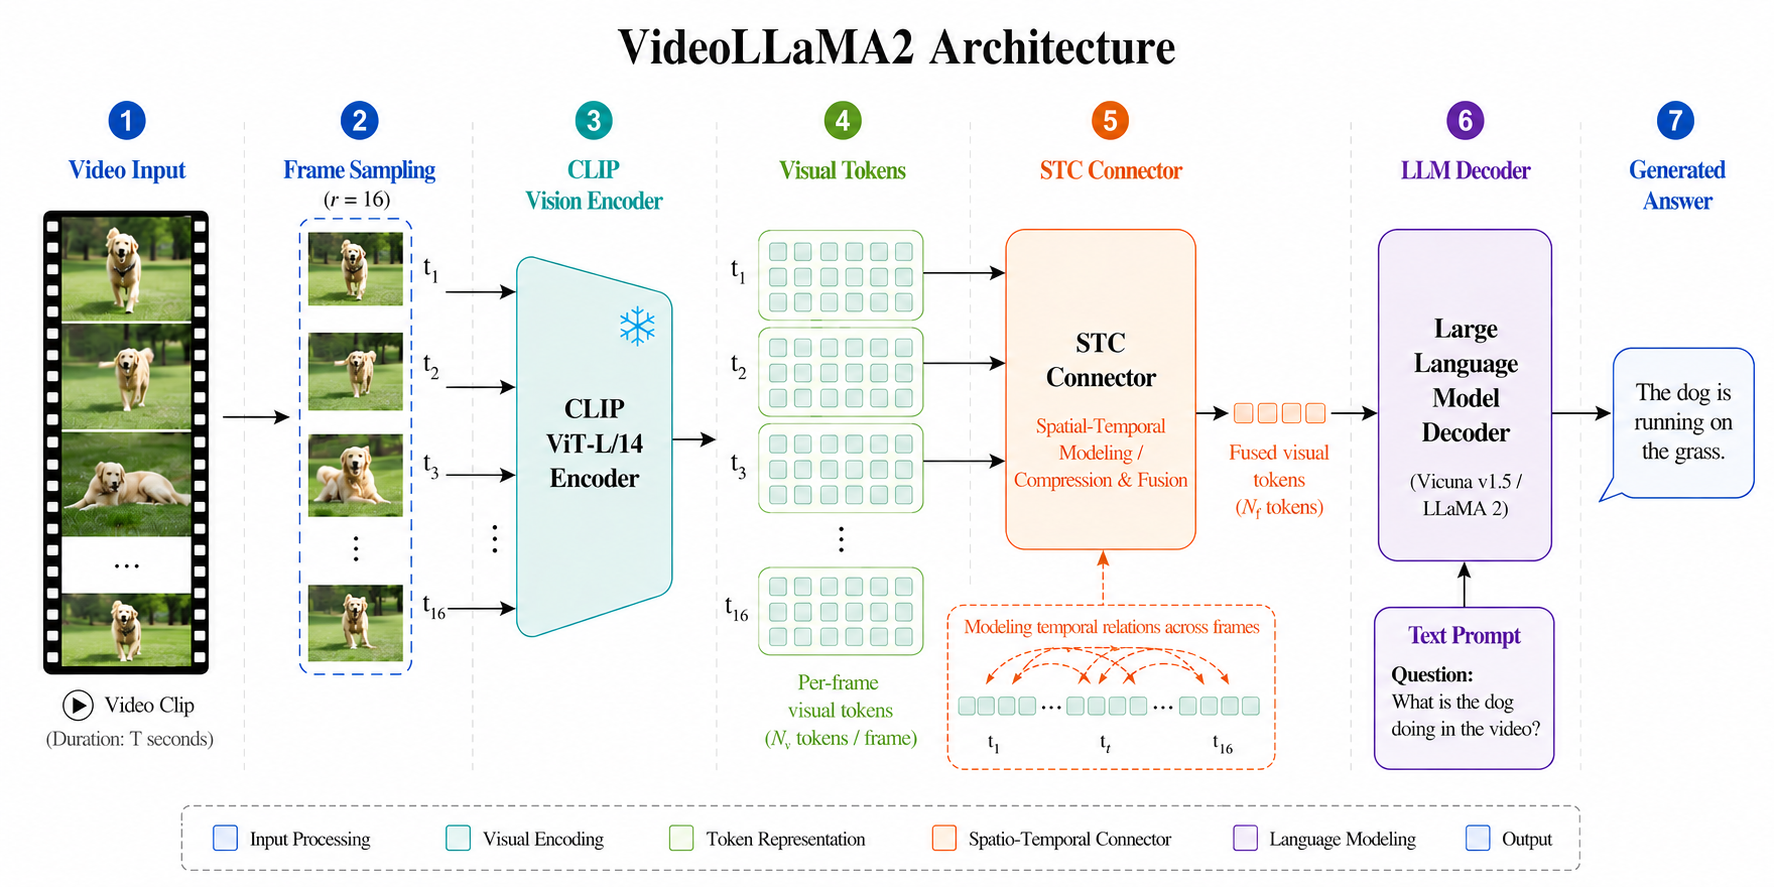
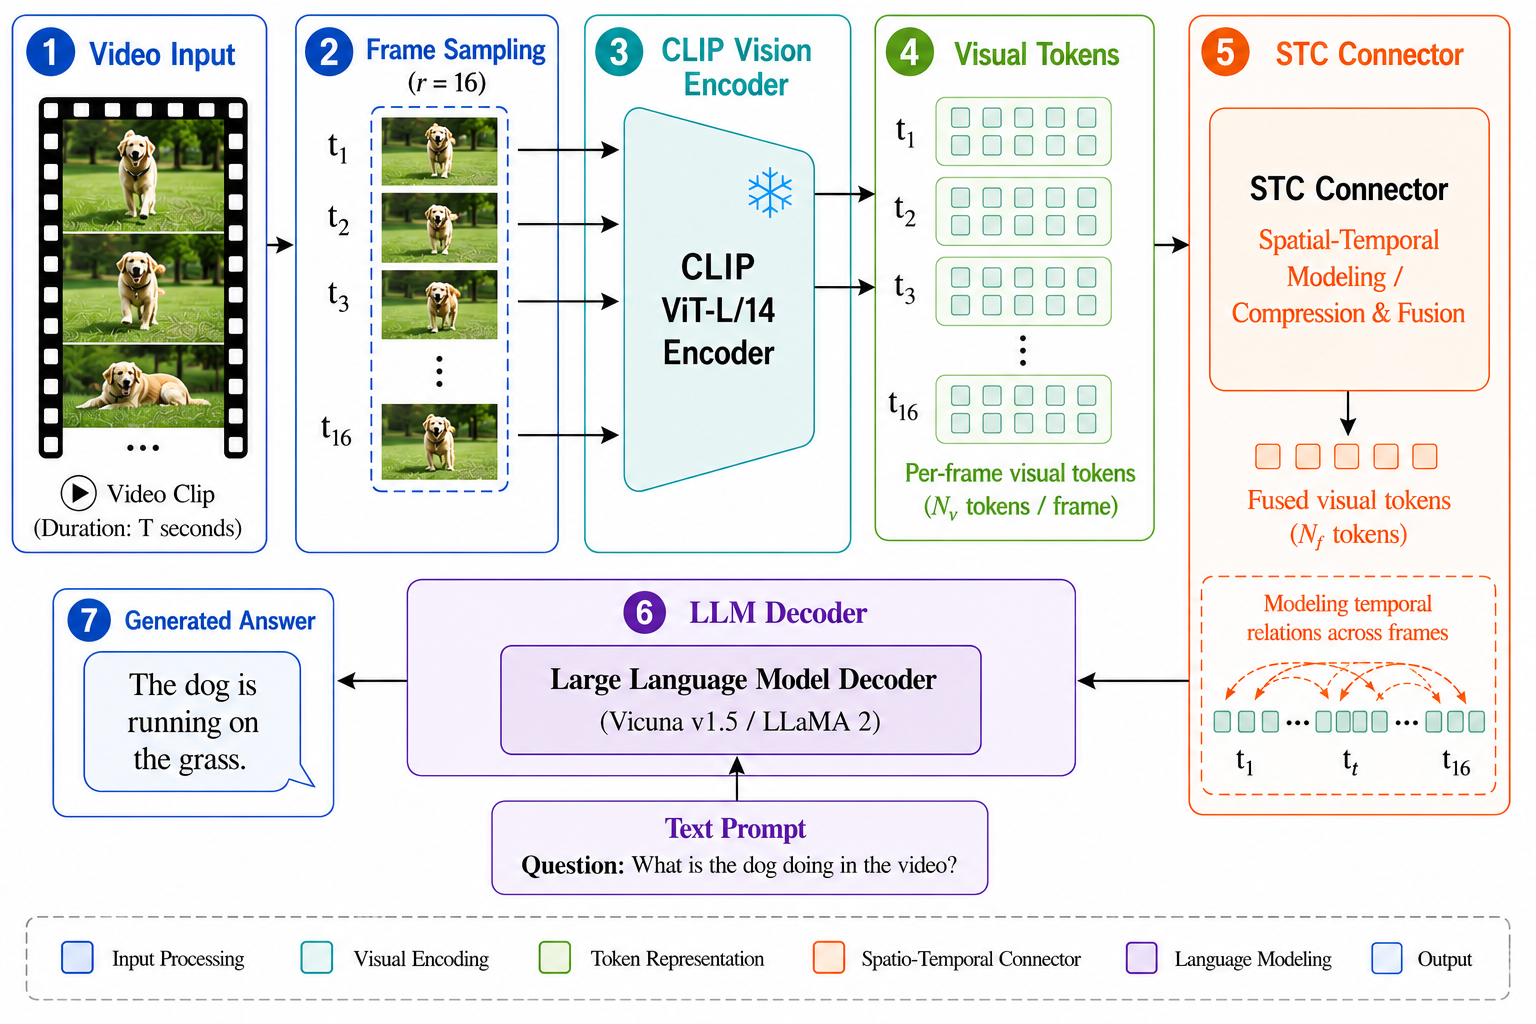
初步完成

diff --git a/body/undergraduate/final/experiments.tex b/body/undergraduate/final/experiments.tex
@@ -4,13 +4,11 @@
 
 本章围绕本文提出的视频视觉 token 压缩方法进行实验验证与结果分析。实验主要从压缩效率、模型准确率、不同压缩倍率下的鲁棒性以及跨数据集泛化能力等方面展开。本文以 VideoLLaMA2-7B-16F 作为基础视频大模型，在不改变语言模型、视觉塔和原始时空连接模块主体结构的前提下，将 TokenPacker 作为帧级空间视觉 token 压缩模块接入模型推理流程，并在 MVBench 数据集上进行主要实验验证\cite{videollama22024,mvbench2024,tokenpacker2024}。
 
-本章实验重点回答以下问题：第一，引入视觉 token 压缩后，模型的视觉 token 数量、推理延迟与吞吐率是否得到改善；第二，TokenPacker 直接迁移到 VideoLLaMA2 后是否存在性能下降问题，token 校准与轻量微调能否缓解该问题；第三，在不同压缩倍率下，本文方法与 Mean Pooling 等固定压缩方法相比是否具有更好的高压缩鲁棒性；第四，在不使用目标测试集进行校准的情况下，本文方法是否具备一定跨数据集泛化能力。由于当前 Video-MME 泛化实验数据尚未完全整理，本章暂将泛化能力实验部分保留为空，后续补充完整实验结果。
+本章实验重点回答以下问题：第一，引入视觉 token 压缩后，模型的视觉 token 数量、推理延迟与吞吐率是否得到改善；第二，TokenPacker 直接迁移到 VideoLLaMA2 后是否存在性能下降问题，token 校准与轻量微调能否缓解该问题；第三，在不同压缩倍率下，本文方法与 Mean Pooling 等固定压缩方法相比是否具有更好的高压缩鲁棒性；第四，在不使用目标测试集进行校准的情况下，本文方法是否具备一定跨数据集泛化能力。
 
 \subsection{实验环境与数据集}
 
 \subsubsection{实验环境}
-
-本文实验在单卡 NVIDIA GeForce RTX 4090 平台上完成。训练与推理均采用 batch size 为 1 的设置，并在相同硬件环境下统计模型推理延迟、prefill 时间、decode 时间、吞吐率与峰值显存。实验所使用的主要软硬件环境如\autoref{tab:experiment_environment}所示。
 
 \begin{table}[htbp]
     \centering
@@ -30,6 +28,8 @@
         \bottomrule
     \end{tabularx}
 \end{table}
+
+本文实验在单卡 NVIDIA GeForce RTX 4090 平台上完成。训练与推理均采用 batch size 为 1 的设置，并在相同硬件环境下统计模型推理延迟、prefill 时间、decode 时间、吞吐率与峰值显存。实验所使用的主要软硬件环境如\autoref{tab:experiment_environment}所示。
 
 需要说明的是，NVIDIA-SMI 中显示的 CUDA Version 表示驱动支持的最高 CUDA 版本，而本文 PyTorch 实际运行时使用的是 CUDA 11.8。为保证不同方法之间的对比公平性，所有推理实验均在相同硬件环境、相同 batch size 和相同解码设置下完成。
 
@@ -68,7 +68,7 @@
 
 具体而言，校准子集从 MVBench 的 20 个任务类别中分别随机抽取最多 50 个视频，形成 `data/calibration\_videos\_mvbench\_clip.txt`。该文件仅用于阶段一无标签 token 校准和可选的阶段二轻量监督微调。正式 MVBench 评测时使用 `--exclude-video-list` 参数排除该校准子集，并在每个任务类别中最多抽取 50 个视频用于评测。该设置能够降低校准数据泄漏对评测结果的影响。
 
-此外，本文计划使用 Video-MME 作为跨数据集泛化测试集\cite{videomme2025}。Video-MME 不参与 TokenPacker 的校准或监督微调，仅用于测试 MVBench 上获得的压缩模型在新数据集上的泛化能力。由于当前 Video-MME 实验数据尚未完整整理，本章仅保留泛化实验章节结构，具体结果将在后续版本中补充。
+此外，本文使用 Video-MME 作为跨数据集泛化测试集\cite{videomme2025}。Video-MME 不参与 TokenPacker 的校准或监督微调，仅用于测试 MVBench 上获得的压缩模型在新数据集上的泛化能力。与 MVBench 相比，Video-MME 覆盖感知、识别、推理和信息概括等更多类型的视频理解任务，因此能够用于观察压缩模块是否只适配 MVBench 分布，或是否能够迁移到新的评测基准上。
 
 \subsubsection{对比方法}
 
@@ -141,7 +141,7 @@
 \begin{table}[htbp]
     \centering
     \caption{\label{tab:efficiency_gain_result}不同压缩倍率下的效率收益}
-    \begin{tabularx}{\textwidth}{c c c c}
+    \begin{tabular}{c c c c}
         \toprule
         Scale & Accuracy Drop & Latency Reduction & Throughput Gain \\
         \midrule
@@ -149,7 +149,7 @@
         3 & -19.96\% & 28.0\% & 38.8\% \\
         4 & -20.71\% & 29.8\% & 42.4\% \\
         \bottomrule
-    \end{tabularx}
+    \end{tabular}
 \end{table}
 
 进一步分析 prefill 与 decode 阶段可以发现，视觉 token 压缩主要降低的是 prefill 阶段耗时。Baseline 的 prefill 时间为 0.1943 秒，而 scale factor 为 2、3、4 时分别下降到 0.0775 秒、0.0539 秒和 0.0443 秒。这一现象符合视频多模态大模型的推理过程特点：视觉 token 主要作为输入上下文参与 prefill 阶段计算，减少视觉 token 数量能够直接降低上下文编码阶段的注意力计算开销。相比之下，decode 阶段耗时变化并不明显，甚至略有增加，说明本文方法的主要效率收益来自视觉上下文长度的压缩，而不是答案生成阶段本身的加速。
@@ -167,7 +167,7 @@
 \begin{table}[htbp]
     \centering
     \caption{\label{tab:s2_overall_performance}Scale factor 为 2 时的整体准确率对比}
-    \begin{tabularx}{\textwidth}{l c}
+    \begin{tabular}{l c}
         \toprule
         Method & Overall Accuracy \\
         \midrule
@@ -177,7 +177,7 @@
         TokenPacker + Calibration (s2) & 41.32 \\
         TokenPacker + Finetune (s2) & 47.01 \\
         \bottomrule
-    \end{tabularx}
+    \end{tabular}
 \end{table}
 
 可以看到，未压缩 VideoLLaMA2 Baseline 的准确率最高，为 57.37\%。Mean Pooling 在压缩到每帧 144 个 token 后，准确率为 50.47\%，相比 Baseline 下降 6.90 个百分点。TokenPacker 直接迁移后的准确率仅为 33.86\%，相比 Baseline 下降 23.51 个百分点，说明原始 TokenPacker 权重虽然能够完成视觉 token 压缩，但直接迁移到 VideoLLaMA2 的视频推理流程中存在明显适配问题。
@@ -243,7 +243,7 @@
 \begin{table}[htbp]
     \centering
     \caption{\label{tab:calibration_gain}Token 校准带来的准确率增益}
-    \begin{tabularx}{\textwidth}{c c c c}
+    \begin{tabular}{c c c c}
         \toprule
         Scale & TokenPacker & TP-Calib & Gain \\
         \midrule
@@ -251,7 +251,7 @@
         3 & 32.74 & 37.41 & +4.67 \\
         4 & 32.74 & 36.66 & +3.92 \\
         \bottomrule
-    \end{tabularx}
+    \end{tabular}
 \end{table}
 
 结果表明，token 校准在三个压缩倍率下均带来了准确率提升。其中，scale factor 为 2 时提升最明显，准确率提升 7.46 个百分点；scale factor 为 3 和 4 时分别提升 4.67 和 3.92 个百分点。这一现象说明，当压缩倍率较低、保留 token 数量相对较多时，TokenPacker 仍有较充分的信息容量用于对齐原始视觉 token 分布，因此校准带来的收益更明显。而在更高压缩倍率下，由于 token 预算更小，视觉信息本身已经被更强地压缩，校准能够恢复的性能空间相对有限。
@@ -261,7 +261,7 @@
 \begin{table}[htbp]
     \centering
     \caption{\label{tab:finetune_gain}轻量监督微调带来的准确率增益}
-    \begin{tabularx}{\textwidth}{c c c c}
+    \begin{tabular}{c c c c}
         \toprule
         Scale & TP-Calib & TP-Finetune & Gain \\
         \midrule
@@ -269,7 +269,7 @@
         3 & 37.41 & 43.94 & +6.53 \\
         4 & 36.66 & 41.88 & +5.22 \\
         \bottomrule
-    \end{tabularx}
+    \end{tabular}
 \end{table}
 
 可以看到，轻量微调在三个压缩倍率下同样均带来进一步提升。其中，scale factor 为 3 时提升 6.53 个百分点，scale factor 为 4 时提升 5.22 个百分点，说明在高压缩设置下，任务监督信号对压缩 token 表示的优化仍然有效。与 token 校准相比，轻量微调不仅关注压缩 token 与原始视觉 token 的特征一致性，还直接优化下游问答任务表现，因此能够在校准基础上进一步恢复准确率。
@@ -287,7 +287,7 @@
 \begin{table}[htbp]
     \centering
     \caption{\label{tab:scale_overall_accuracy}不同压缩倍率下的整体准确率对比}
-    \begin{tabularx}{\textwidth}{c c c c c}
+    \begin{tabular}{c c c c c}
         \toprule
         Scale & Mean Pooling & TokenPacker & TP-Calib & TP-Finetune \\
         \midrule
@@ -295,7 +295,7 @@
         3 & 43.66 & 32.74 & 37.41 & 43.94 \\
         4 & 39.37 & 32.74 & 36.66 & 41.88 \\
         \bottomrule
-    \end{tabularx}
+    \end{tabular}
 \end{table}
 
 \begin{figure}[htbp]
@@ -317,7 +317,7 @@
 \begin{table}[htbp]
     \centering
     \caption{\label{tab:accuracy_drop_scale}不同方法随压缩倍率增加的准确率变化}
-    \begin{tabularx}{\textwidth}{l c c c c}
+    \begin{tabular}{l c c c c}
         \toprule
         Method & Scale=2 & Scale=3 & Scale=4 & $\Delta$(s2$\rightarrow$s4) \\
         \midrule
@@ -326,7 +326,7 @@
         TP + Calibration & 41.32 & 37.41 & 36.66 & -4.66 \\
         TP + Finetune & 47.01 & 43.94 & 41.88 & -5.13 \\
         \bottomrule
-    \end{tabularx}
+    \end{tabular}
 \end{table}
 
 从下降幅度看，Mean Pooling 的准确率下降最大，说明其在高压缩倍率下难以稳定保持任务性能。其原因在于 Mean Pooling 直接对局部 token 求平均，虽然能够较好保留整体分布形态，但缺乏对局部重要区域的自适应选择能力。当压缩倍率较高时，大量细粒度视觉信息被平均化，容易削弱模型对动作细节、目标交互和场景变化的判断能力。
@@ -345,11 +345,46 @@ TokenPacker 则采用可学习的注意力聚合机制，通过低分辨率 quer
 
 \subsection{泛化能力实验}
 
-本节计划使用 Video-MME 数据集评估本文方法的跨数据集泛化能力。Video-MME 不参与 TokenPacker 的无标签校准和轻量监督微调，仅作为独立测试集使用。正式实验将直接加载在 MVBench 上校准或微调得到的 TokenPacker checkpoint，并在 Video-MME 上比较 Baseline、Mean Pooling、TokenPacker Calibrated 和 TokenPacker Finetuned 等方法的性能。
+本节使用 Video-MME 数据集评估本文方法的跨数据集泛化能力。Video-MME 不参与 TokenPacker 的无标签校准和轻量监督微调，仅作为独立测试集使用。实验直接加载在 MVBench 上得到的 TokenPacker checkpoint，并比较未压缩 Baseline、直接迁移的 TokenPacker Init 以及经过校准与轻量微调后的 TP-Calib+FT。该实验的核心目的是验证本文方法是否只是对 MVBench 数据分布产生了特定适配，还是能够在未参与训练和校准的新视频理解基准上保持一定有效性。
 
-该实验的核心目的是验证本文方法是否只是对 MVBench 数据分布产生了特定适配，还是能够在未参与训练和校准的新视频理解基准上保持一定有效性。后续将从总体准确率、不同视频时长、不同任务类型以及是否使用字幕等维度进行分析。
+\begin{table}[H]
+    \centering
+    \setlength{\tabcolsep}{6pt}
+    \renewcommand{\arraystretch}{0.75}
+    \caption{\label{tab:videomme_generalization}Video-MME 泛化能力实验结果}
+    \begin{tabular*}{\textwidth}{@{\extracolsep{\fill}}l c c c@{}}
+        \toprule
+        Task Category & Baseline & TP-Init & TP-Calib+FT \\
+        \midrule
+        Temporal Perception & 45.83\% & 50.00\% & 43.30\% \\
+        Spatial Perception & 71.43\% & 50.00\% & 50.00\% \\
+        Attribute Perception & 60.48\% & 24.20\% & 48.50\% \\
+        Action Recognition & 53.21\% & 37.20\% & 44.30\% \\
+        Object Recognition & 58.33\% & 38.90\% & 39.30\% \\
+        OCR Problems & 38.30\% & 31.90\% & 40.00\% \\
+        Counting Problem & 31.58\% & 31.60\% & 35.70\% \\
+        Temporal Reasoning & 36.11\% & 31.50\% & 33.30\% \\
+        Spatial Reasoning & 81.58\% & 31.60\% & 45.90\% \\
+        Action Reasoning & 41.96\% & 30.40\% & 42.50\% \\
+        Object Reasoning & 48.54\% & 36.90\% & 38.10\% \\
+        Information Synopsis & 70.79\% & 37.10\% & 54.50\% \\
+        \midrule
+        Overall Accuracy & 52.06\% & 34.70\% & 42.95\% \\
+        \bottomrule
+    \end{tabular*}
+\end{table}
 
-由于当前 Video-MME 实验数据尚未整理完成，本节暂不报告具体数值结果。后续补充实验数据后，将在本节加入对应表格与分析。
+如\autoref{tab:videomme_generalization}所示，未压缩 Baseline 在 Video-MME 上的总体准确率为 52.06\%，直接迁移的 TokenPacker Init 准确率为 34.70\%，相比 Baseline 下降 17.36 个百分点。这一结果与 MVBench 主实验中的现象一致，说明图像场景下的 TokenPacker 压缩权重直接接入 VideoLLaMA2 后，在新的评测集上同样存在明显的分布适配问题。由于 Video-MME 未参与校准和微调，该下降不能简单归因于某一数据集的任务设置，而更可能来自压缩 token 分布与原始 STC Connector 输入分布之间的不匹配。
+
+经过 token 校准与轻量微调后，TP-Calib+FT 在 Video-MME 上的总体准确率提升到 42.95\%，相比 TP-Init 提升 8.25 个百分点。该结果表明，本文提出的校准与轻量微调流程不仅能够改善 MVBench 上的表现，也能够在未参与训练的新数据集上带来一定泛化收益。换言之，校准和微调并非只记忆 MVBench 中的样本，而是在一定程度上改善了压缩 token 与 VideoLLaMA2 后端模块之间的通用适配关系。
+
+从不同任务类别看，TP-Calib+FT 在 Attribute Perception、Action Recognition、OCR Problems、Counting Problem、Action Reasoning 和 Information Synopsis 等任务上均明显优于 TP-Init。例如，Attribute Perception 从 24.20\% 提升到 48.50\%，Information Synopsis 从 37.10\% 提升到 54.50\%，Action Reasoning 从 30.40\% 提升到 42.50\%。这些结果说明，经过适配后的 TokenPacker 能够恢复一部分与属性识别、动作理解和视频内容概括相关的视觉语义信息。
+
+然而，TP-Calib+FT 与 Baseline 之间仍存在 9.11 个百分点的总体准确率差距，并且在 Spatial Perception、Object Recognition、Temporal Reasoning 和 Spatial Reasoning 等任务上仍明显低于未压缩模型。其中，Spatial Reasoning 从 Baseline 的 81.58\% 降至 45.90\%，说明强压缩后的视觉 token 对空间关系推理仍存在较大信息损失。这表明本文方法虽然具有一定跨数据集泛化能力，但当前逐帧空间压缩策略仍难以完全保留所有细粒度空间结构和复杂推理所需的信息。
+
+值得注意的是，TP-Calib+FT 在 OCR Problems、Counting Problem 和 Action Reasoning 三类任务上略高于 Baseline，分别达到 40.00\%、35.70\% 和 42.50\%。这一现象可能与测试样本数量、候选答案分布以及压缩后 token 对低频语义的突出作用有关，不能简单解释为压缩方法在这些能力上全面超过原模型。但它至少说明，适当的视觉 token 压缩并不必然削弱所有类型的视频理解能力，在部分任务上还可能通过减少冗余视觉 token 干扰，使模型更加关注主要语义线索。
+
+总体来看，Video-MME 泛化实验进一步验证了本文方法的两个结论。第一，TokenPacker 直接迁移到视频大模型时存在稳定的适配性下降，需要通过校准和微调进行缓解。第二，经过适配后的 TokenPacker 在新数据集上仍能保持一定性能恢复能力，说明本文方法并非仅对 MVBench 有效。但与此同时，压缩模型与未压缩 Baseline 仍存在明显差距，尤其是在空间关系和物体级细粒度推理任务上表现不足，这也为后续设计时空联合压缩和自适应 token 保留策略提供了改进方向。
 
 \subsection{实验结果分析与讨论}
 

diff --git a/body/undergraduate/final/conclusion.tex b/body/undergraduate/final/conclusion.tex
@@ -1,0 +1,53 @@
+\cleardoublepage
+
+\section{总结与展望}
+
+本章对全文工作进行总结，并结合实验结果分析本文方法仍然存在的不足，最后对后续研究方向进行展望。本文围绕视频多模态大模型推理过程中视觉 token 数量过多、prefill 阶段计算开销较大的问题展开研究，以 VideoLLaMA2 为基础视频大模型框架，将面向图像多模态模型的 TokenPacker 视觉 token 压缩思想迁移到视频场景中，构建了逐帧空间压缩、token 校准与轻量微调相结合的视频高效推理方案\cite{videollama22024,tokenpacker2024}。
+
+\subsection{工作总结}
+
+本文首先分析了视频多模态大模型中的视觉 token 冗余问题。对于基于视觉 Transformer 的视频理解模型而言，视频输入通常需要被拆分为多帧图像，再由视觉编码器将每帧图像表示为大量 patch token。以本文使用的 VideoLLaMA2-7B-16F 为例，在输入 16 帧、单帧空间网格为 $24\times24$ 的设置下，单个视频样本在进入后续时空建模模块前会产生 9216 个帧级空间视觉 token。大量视觉 token 会显著增加语言模型上下文长度，并使 prefill 阶段产生较高的计算和显存开销。因此，如何在尽量保持视频语义信息的同时减少视觉 token 数量，是提升视频多模态大模型推理效率的重要问题。
+
+针对上述问题，本文完成了 TokenPacker 在 VideoLLaMA2 中的结构迁移与接口适配。由于 TokenPacker 原始设计主要面向静态图像多模态模型，其输出维度、压缩位置和后端连接方式不能直接套用于 VideoLLaMA2 的时空建模流程。本文没有替换 VideoLLaMA2 原有的 STC Connector，也没有修改语言模型主体，而是在视觉塔输出与 STC Connector 输入之间引入帧级空间 token 压缩模块。该设计将视频 token 压缩问题拆解为逐帧空间压缩问题，在保留原有时间维结构的同时降低每帧内部的空间 token 数量，从而避免破坏 VideoLLaMA2 已有的时空融合机制。
+
+在具体实现上，本文对 TokenPacker 的输入输出结构进行了调整，使其能够接收来自 CLIP 视觉塔的 single features 和 multi-level features，并输出与 VideoLLaMA2 后续模块兼容的视觉特征维度。本文进一步定义了 scale factor 来控制压缩倍率。当 scale factor 分别为 2、3、4 时，每帧视觉 token 数量由 576 分别压缩至 144、64、36，对应单个视频样本的视觉 token 总数由 9216 分别下降到 2304、1024、576。该流程实现了可控的视觉 token 压缩，并形成了完整的“视频输入、帧采样、视觉特征提取、TokenPacker 压缩、STC Connector 时空融合、LLM 解码”的推理链路。
+
+针对 TokenPacker 直接迁移后出现的准确率下降问题，本文进一步设计了 token 校准与轻量监督微调策略。实验表明，直接将图像场景下的 TokenPacker 权重迁移到 VideoLLaMA2 中会带来明显性能下降，其主要原因在于压缩 token 的分布与原始 VideoLLaMA2 后端模块所适配的视觉 token 分布不一致。为缓解这一问题，本文首先使用无标签视频样本进行 token 校准，使 TokenPacker 输出的压缩 token 与目标压缩表示在特征空间中更加接近；随后在校准结果基础上进行轻量监督微调，使压缩模块进一步适配下游视频问答任务。该流程从“特征分布对齐”和“任务目标适配”两个层面改善了压缩模型的性能。
+
+实验部分从压缩效率、模型准确率、压缩倍率鲁棒性和跨数据集泛化能力等角度验证了本文方法的有效性。在 MVBench 主实验中，未压缩 Baseline 的平均推理延迟为 0.4762 秒；引入 TokenPacker 后，当 scale factor 为 2、3、4 时，平均推理延迟分别下降到 0.3699 秒、0.3431 秒和 0.3344 秒，吞吐率分别提升到 2.7037、2.9143 和 2.9900 samples/s\cite{mvbench2024}。进一步分析表明，视觉 token 压缩主要降低的是 prefill 阶段耗时，说明减少视觉上下文长度能够直接缓解视频多模态大模型的输入编码开销。
+
+在准确率恢复方面，本文实验验证了校准和微调的必要性。以 scale factor 为 2 为例，TokenPacker 直接迁移后的 MVBench 准确率为 33.86\%，经过 token 校准后提升到 41.32\%，进一步轻量微调后提升到 47.01\%。在 scale factor 为 3 和 4 的设置下，校准与微调同样带来了稳定增益。这说明 TokenPacker 迁移到视频大模型后的性能下降并非完全来自压缩结构本身，而是与跨模型、跨任务的分布适配问题密切相关；通过适当的校准和微调，压缩模块能够获得更好的任务表现。
+
+本文还比较了 TokenPacker 与 Mean Pooling 在不同压缩倍率下的表现。实验结果表明，Mean Pooling 在低压缩倍率下具有较强竞争力，scale factor 为 2 时准确率达到 50.47\%，高于同倍率下的 TokenPacker 系列方法。这说明简单均值池化由于更接近原始 token 分布，在低压缩场景下更容易与已有 VideoLLaMA2 后端模块保持适配。然而，随着压缩倍率提高，Mean Pooling 的准确率下降更明显；当 scale factor 从 2 增加到 4 时，其准确率从 50.47\% 下降到 39.37\%。相比之下，经过微调的 TokenPacker 从 47.01\% 下降到 41.88\%，下降幅度更小，并在 scale factor 为 4 时超过 Mean Pooling。这表明可学习视觉 token 压缩方法在高压缩倍率下具有更好的信息聚合能力和鲁棒性潜力。
+
+最后，本文使用 Video-MME 对模型进行跨数据集泛化测试\cite{videomme2025}。实验结果显示，TokenPacker 直接迁移版本在 Video-MME 上的总体准确率为 34.70\%，经过校准与轻量微调后提升到 42.95\%。虽然与未压缩 Baseline 的 52.06\% 仍存在差距，但该结果说明本文提出的适配流程并非只对 MVBench 有效，在未参与校准和微调的新数据集上仍能带来一定性能恢复。综合来看，本文验证了将 TokenPacker 迁移至视频大模型进行视觉 token 压缩的可行性，也揭示了可学习压缩方法在高压缩场景下的潜在优势。
+
+\subsection{存在的不足}
+
+尽管本文方法在推理效率和高压缩鲁棒性方面取得了一定效果，但仍然存在以下不足。
+
+第一，压缩模型的准确率仍未完全恢复到未压缩 Baseline 水平。实验结果表明，即使经过 token 校准和轻量微调，TokenPacker 压缩模型在 MVBench 和 Video-MME 上仍与原始 VideoLLaMA2 存在一定差距。这说明当前逐帧空间压缩仍会造成不可忽略的信息损失，尤其是在需要细粒度空间关系、物体交互和复杂时序推理的任务中，压缩后的视觉 token 可能不足以完整保留原始视觉特征中的关键线索。
+
+第二，本文主要关注帧内空间维度的 token 压缩，尚未充分利用视频在时间维度上的冗余信息。实际视频中相邻帧之间通常存在大量重复内容，而不同时间片段对任务答案的重要性也并不相同。本文为了保持 VideoLLaMA2 原有 STC Connector 的输入结构，选择对每一帧进行独立空间压缩，没有进一步设计时间维动态压缩、关键帧选择或跨帧 token 合并机制。因此，在长视频或强时序推理任务中，本文方法对时间冗余的利用仍然有限。
+
+第三，当前压缩策略采用固定 scale factor，缺少面向不同样本和不同任务的自适应机制。在本文实验中，所有视频样本均使用相同压缩倍率，例如每帧统一保留 144、64 或 36 个 token。然而，不同视频的内容复杂度、运动幅度和问题类型差异较大。对于视觉信息简单或背景冗余较多的视频，可以采用更高压缩倍率；而对于包含细粒度动作、文字、多个目标交互的视频，则可能需要保留更多 token。固定压缩倍率虽然便于实验控制，但难以在所有样本上同时达到最优效率和准确率平衡。
+
+第四，本文使用的校准和微调数据规模仍然有限。由于实验资源和时间限制，本文主要从 MVBench 中构造有限规模的校准子集，并进行轻量级训练。该设置能够验证方法可行性，但不足以充分发挥 TokenPacker 作为可学习压缩模块的能力。从子任务结果可以看到，不同任务上的性能恢复并不均衡，部分任务甚至在微调后仍有波动。这说明后续仍需要更大规模、更高质量的视频指令数据和更系统的训练策略，以进一步提升压缩模块的稳定性。
+
+第五，本文对部署层面的优化仍不充分。当前实验主要从模型结构和 token 数量角度分析推理效率，重点统计了延迟、吞吐率和 prefill 时间等指标。但在实际部署中，视频解码、帧采样、视觉塔前向计算、显存调度、KV cache 管理和批处理策略都会影响端到端推理效率。本文尚未针对这些系统因素进行联合优化，因此距离完整的视频大模型部署方案仍有一定距离。
+
+\subsection{未来工作展望}
+
+未来可以从以下几个方向继续改进本文工作。
+
+首先，可以进一步研究时空联合的视觉 token 压缩方法。本文采用逐帧空间压缩以保持 VideoLLaMA2 原有时空结构，但这一策略没有直接处理跨帧冗余。后续可以在空间压缩基础上引入时间维 token 合并、关键帧选择或片段级摘要 token，使模型同时减少空间冗余和时间冗余。特别是在长视频理解场景中，若能够根据视频内容动态保留关键时间片段，将有助于进一步降低上下文长度并提升长视频推理效率。
+
+其次，可以设计动态 token routing 和自适应 token 保留策略。未来模型可以根据视频内容、问题文本和中间特征自动判断不同区域的重要性，为不同帧、不同空间区域分配不同 token 预算。例如，对于包含关键动作或文字信息的区域保留更多 token，而对静态背景或重复帧进行更强压缩。相比固定 scale factor，自适应压缩能够更精细地平衡效率和性能，也更符合视频理解任务中信息分布不均衡的特点。
+
+再次，可以探索更强的校准目标和训练方式。本文主要通过 token 级特征对齐和轻量监督微调缓解分布偏移问题。后续可以进一步引入多层特征蒸馏、注意力分布对齐、答案一致性约束或教师模型指导，使压缩模块不仅对齐局部 token 表示，也能保留原始模型在推理过程中的语义判断能力。此外，还可以结合更大规模的视频指令数据进行阶段式训练，提高压缩模块在不同任务和数据集上的泛化能力。
+
+此外，可以针对不同视频任务构建任务感知的压缩机制。实验结果表明，动作识别、空间关系推理、目标交互、OCR 和计数等任务对视觉信息的需求并不相同。未来可以根据问题类型或任务类别选择不同的压缩策略，例如对 OCR 和细粒度空间推理任务保留更多局部 token，对全局动作识别和场景概括任务使用更强压缩。任务感知压缩有望减少统一压缩策略带来的性能波动。
+
+最后，可以将视觉 token 压缩与系统级推理优化结合起来。视觉 token 压缩主要降低模型输入上下文长度，而实际视频大模型部署还涉及视觉编码器加速、KV cache 管理、批量推理调度和低比特量化等问题。未来可以将本文方法与高效注意力、模型量化、缓存复用和流式视频处理等技术结合，构建面向真实应用场景的端到端高效视频多模态推理系统。
+
+总体而言，本文围绕视频大模型高效推理中的视觉 token 压缩问题开展了初步研究，完成了 TokenPacker 到 VideoLLaMA2 的迁移适配，并通过实验验证了逐帧空间压缩、token 校准和轻量微调的有效性。虽然当前方法在准确率恢复、自适应压缩和长视频处理方面仍有改进空间，但相关实验表明，可学习视觉 token 压缩在高压缩倍率场景下具有值得进一步探索的潜力。随着视频多模态大模型在真实应用中的输入长度和部署需求不断提升，面向视频场景的高效视觉 token 表示与压缩方法仍将是重要的研究方向。

diff --git a/body/undergraduate/final/method.tex b/body/undergraduate/final/method.tex
@@ -35,15 +35,18 @@
 \par 在实际实现中，VideoLLaMA2 会先将时间维与 batch 维合并，将输入重排为 $(BT) \times C \times H \times W$ 后送入视觉编码器。视觉编码器输出两类特征：一类是选定层的 patch token，记为 \texttt{single\_features}；另一类是多个 hidden states 拼接后的多层特征，记为 \texttt{multi\_features}。随后，本文在 STC Connector 之前插入 \texttt{VideoTokenPackerWrapper}，将帧级张量展平为 $(BT) \times N \times D$ 后调用 TokenPacker 进行空间压缩，并在压缩完成后重新恢复为 $B \times T \times N_c \times D$ 的视频特征格式。这里 $N$ 表示原始每帧 patch token 数量，$N_c$ 表示压缩后的每帧 token 数量。
 
 \begin{table}[ht]
+    \centering
     \caption{\label{tab:method-module-io}本文方法中主要模块的输入输出形式}
-    \begin{tabularx}{\linewidth}{|c|X<{\centering}|X<{\centering}|}
-        \hline
-        模块 & 输入 & 输出 \\ \hline
-        帧采样 & 原始视频 & $\mathbf{V}\in\mathbb{R}^{B\times T\times C\times H\times W}$ \\ \hline
-        视觉编码器 & $(BT)\times C\times H\times W$ & $\mathbf{X}\in\mathbb{R}^{B\times T\times N\times D}$，$\mathbf{M}\in\mathbb{R}^{B\times T\times N\times 4D}$ \\ \hline
-        TokenPacker & $\mathbf{X}$，$\mathbf{M}$ & $\hat{\mathbf{X}}\in\mathbb{R}^{B\times T\times N_c\times D}$ \\ \hline
-        STC Connector & $\hat{\mathbf{X}}$ & $\mathbf{Z}\in\mathbb{R}^{B\times L_v\times D_l}$ \\ \hline
-        LLM Decoder & 文本 token 与视觉 token & 生成式回答 \\ \hline
+    \begin{tabularx}{\textwidth}{c >{\centering\arraybackslash}X >{\centering\arraybackslash}X}
+        \toprule
+        模块 & 输入 & 输出 \\
+        \midrule
+        帧采样 & 原始视频 & $\mathbf{V}\in\mathbb{R}^{B\times T\times C\times H\times W}$ \\
+        视觉编码器 & $(BT)\times C\times H\times W$ & $\mathbf{X}\in\mathbb{R}^{B\times T\times N\times D}$，$\mathbf{M}\in\mathbb{R}^{B\times T\times N\times 4D}$ \\
+        TokenPacker & $\mathbf{X}$，$\mathbf{M}$ & $\hat{\mathbf{X}}\in\mathbb{R}^{B\times T\times N_c\times D}$ \\
+        STC Connector & $\hat{\mathbf{X}}$ & $\mathbf{Z}\in\mathbb{R}^{B\times L_v\times D_l}$ \\
+        LLM Decoder & 文本 token 与视觉 token & 生成式回答 \\
+        \bottomrule
     \end{tabularx}
 \end{table}
 
@@ -273,15 +276,18 @@
 \par 在 CLIP ViT-L/14-336 与 $T=16$ 的默认设置下，不同 \texttt{scale\_factor} 对应的 token 数量如\autoref{tab:method-token-budget}所示。
 
 \begin{table}[ht]
+    \centering
     \caption{\label{tab:method-token-budget}不同压缩尺度下 STC 前视觉 token 数量}
-    \begin{tabularx}{\linewidth}{|c|c|c|c|c|}
-        \hline
-        \texttt{scale\_factor} & 每帧网格 & 每帧 token 数 & 视频总 token 数 & token 保留率 \\ \hline
-        未压缩 & $24\times24$ & $576$ & $9216$ & $100\%$ \\ \hline
-        $2$ & $12\times12$ & $144$ & $2304$ & $25.00\%$ \\ \hline
-        $3$ & $8\times8$ & $64$ & $1024$ & $11.11\%$ \\ \hline
-        $4$ & $6\times6$ & $36$ & $576$ & $6.25\%$ \\ \hline
-    \end{tabularx}
+    \begin{tabular}{c c c c c}
+        \toprule
+        \texttt{scale\_factor} & 每帧网格 & 每帧 token 数 & 视频总 token 数 & token 保留率 \\
+        \midrule
+        未压缩 & $24\times24$ & $576$ & $9216$ & $100\%$ \\
+        $2$ & $12\times12$ & $144$ & $2304$ & $25.00\%$ \\
+        $3$ & $8\times8$ & $64$ & $1024$ & $11.11\%$ \\
+        $4$ & $6\times6$ & $36$ & $576$ & $6.25\%$ \\
+        \bottomrule
+    \end{tabular}
 \end{table}
 
 \par 需要注意的是，本文的 \texttt{scale\_factor} 表示空间边长方向的缩放比例，而不是最终 token 数量的线性缩减比例。由于视觉 token 来自二维空间网格，最终 token 数量近似按 $s^2$ 倍减少。例如，当 $s=4$ 时，每帧 token 数由 $576$ 降至 $36$，对应 $16$ 倍的空间 token 压缩。

diff --git a/body/undergraduate/final/content.tex b/body/undergraduate/final/content.tex
@@ -5,4 +5,3 @@
 \inputbody{final/method}
 \inputbody{final/experiments}
 \inputbody{final/conclusion}
-\inputbody{final/2-body}